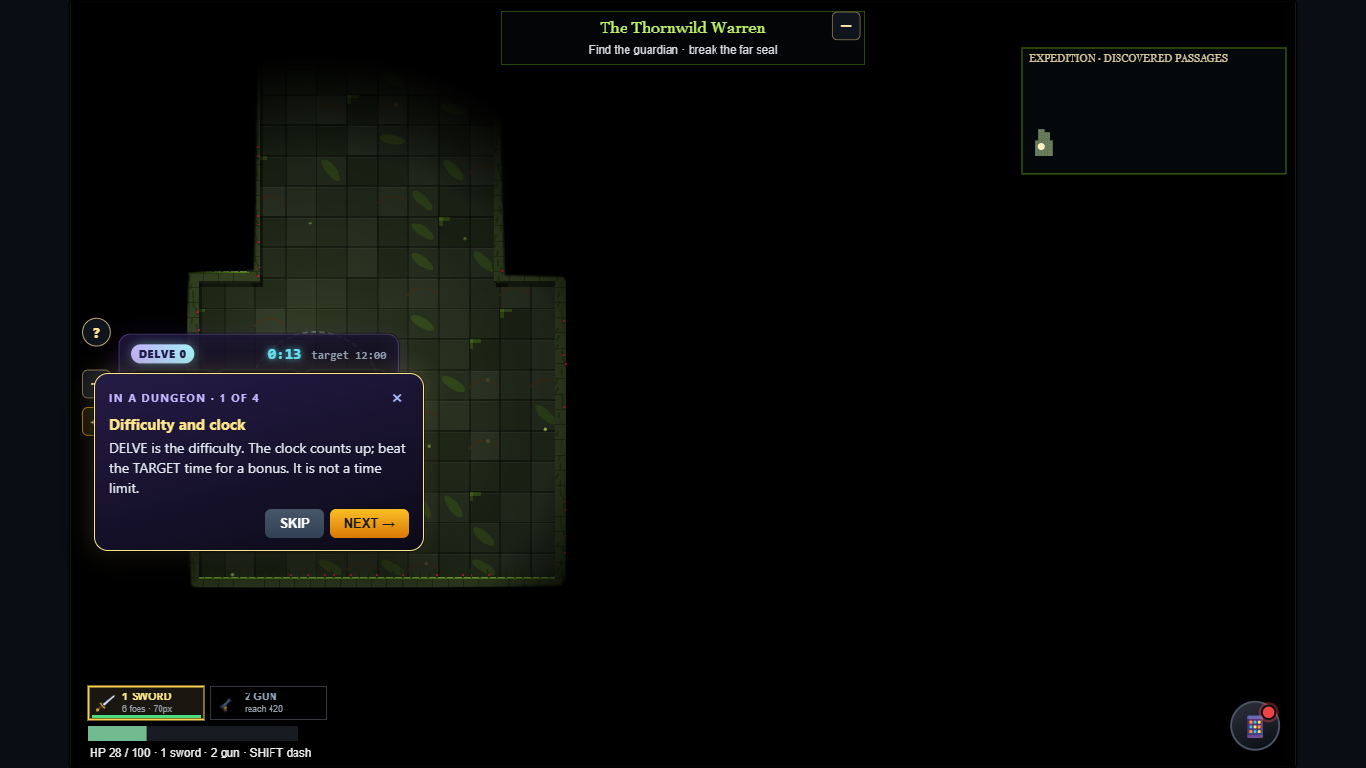
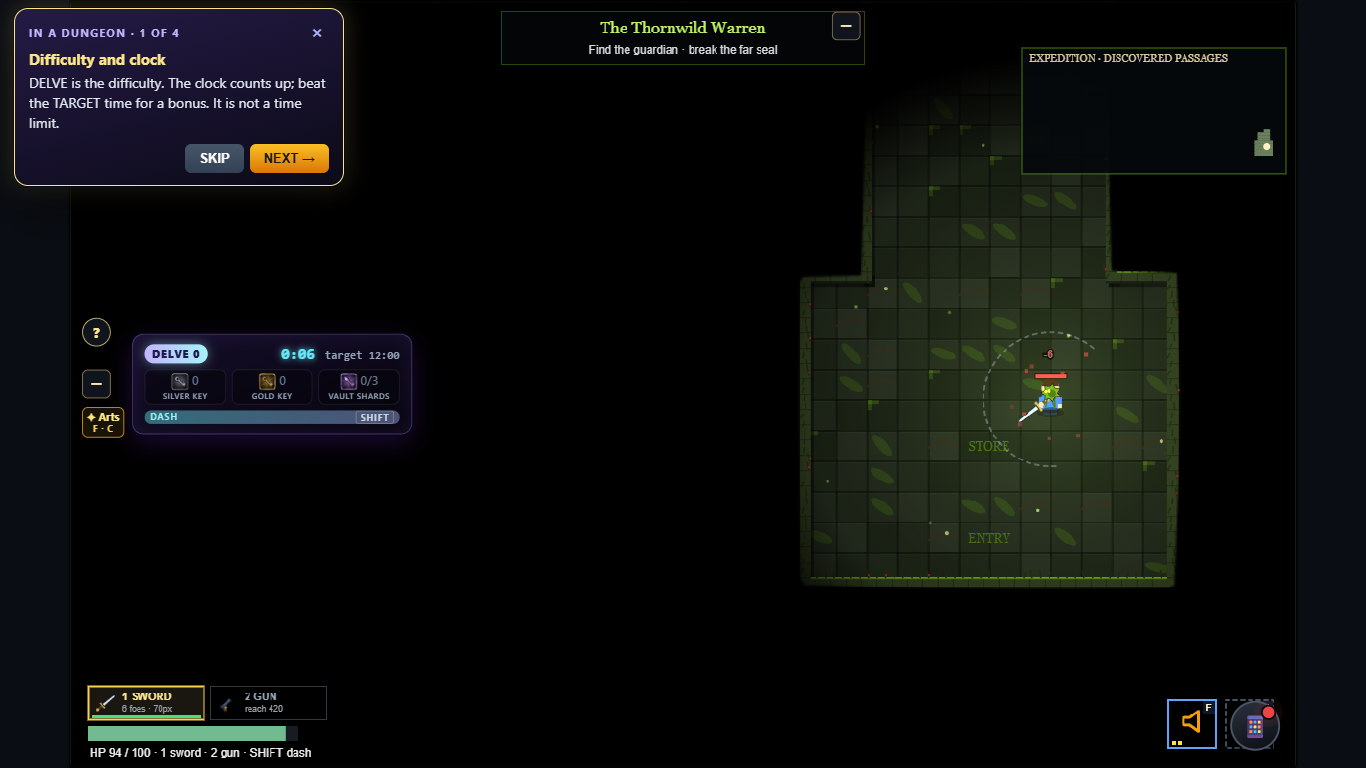
GUI clarity: loot-reveal next step, art slot caption and placement, audit doc with changes and screenshot index

diff --git a/style.css b/style.css
@@ -2819,11 +2819,11 @@ img.ii.scSil{filter:grayscale(1) brightness(.45) contrast(1.2);opacity:.75}
 .gdSpot{position:relative;z-index:2;outline:3px solid #fde68a!important;outline-offset:3px;border-radius:10px;box-shadow:0 0 0 6px rgba(253,230,138,.18),0 0 26px rgba(253,230,138,.45)!important;animation:gdSpotPulse 1.6s ease-in-out infinite}
 @keyframes gdSpotPulse{50%{outline-color:rgba(253,230,138,.45)}}
 /* boss primer */
-.gdBoss{position:fixed;z-index:10030;left:12px;top:22%;width:min(320px,calc(100vw - 24px));padding:12px 14px;border-radius:14px;box-sizing:border-box;
+.gdBoss{position:fixed;z-index:10030;right:12px;top:64px;width:min(320px,calc(100vw - 24px));padding:12px 14px;border-radius:14px;box-sizing:border-box;
   background:linear-gradient(165deg,rgba(40,20,26,.96),rgba(10,6,10,.96));border:1px solid rgba(248,113,113,.65);box-shadow:0 14px 40px rgba(0,0,0,.6);
   color:#f1f5f9;font:13px/1.45 system-ui,sans-serif}
 .gdBoss[hidden]{display:none}
-.gdBoss.modal{left:50%;top:50%;transform:translate(-50%,-50%);width:min(420px,calc(100vw - 24px));max-height:calc(100vh - 24px);overflow:auto}
+.gdBoss.modal{right:auto;left:50%;top:50%;transform:translate(-50%,-50%);width:min(420px,calc(100vw - 24px));max-height:calc(100vh - 24px);overflow:auto}
 .gdBoss > b{font-size:15px;color:#fecaca}
 .gdBoss ol{margin:8px 0;padding-left:20px;display:grid;gap:5px}
 .gdBoss .menuBtn{width:100%;margin-top:8px}
@@ -2892,6 +2892,7 @@ img.ii.scSil{filter:grayscale(1) brightness(.45) contrast(1.2);opacity:.75}
 .gdLockTag{display:inline-block;padding:1px 8px;border-radius:6px;font-size:11px;font-weight:700;color:#cbd5e1;background:rgba(148,163,184,.14);border:1px dashed rgba(148,163,184,.5)}
 #jnRoot .menuBtn:disabled,#jnRoot .menuBtn[disabled]{opacity:.42;filter:grayscale(.7);cursor:not-allowed;box-shadow:none}
 .gdEm{color:#fde68a;font-weight:800}
+.scRvNext{display:block;margin-top:4px;font-size:10px;line-height:1.3;color:#fde68a;opacity:.9;max-width:150px;text-align:center}
 .adForgeHero .gdHelpBtn,.scHero .gdHelpBtn{display:flex;width:max-content;margin-top:6px}
 /* the side column in a run: ?, collapse, Arts (two short lines so it clears the HUD panel) */
 #dungeonArtsBtn{width:44px;height:auto!important;padding:4px 0!important;display:grid;justify-items:center;gap:1px;line-height:1.05!important}

diff --git a/index.html b/index.html
@@ -5,7 +5,7 @@
 <meta name="viewport" content="width=device-width, initial-scale=1" />
 <title>Neighborhood</title>
 <link rel="icon" href="data:," />
-<link rel="stylesheet" href="style.css?v=gui-4" />
+<link rel="stylesheet" href="style.css?v=gui-5" />
 
 </head>
 <body>
@@ -227,18 +227,18 @@
   <script type="text/plain" data-boot src="js/player-weapons.js?v=weapons-1"></script>
   <script type="text/plain" data-boot src="js/combat.js?v=weapons-1"></script>
   <script type="text/plain" data-boot src="js/depths-client.js?v=gui-1"></script>
-  <script type="text/plain" data-boot src="js/expedition.js?v=weapons-1"></script>
+  <script type="text/plain" data-boot src="js/expedition.js?v=gui-1"></script>
   <script type="text/plain" data-boot src="js/crown-boss.js?v=gui-1"></script>
-  <script type="text/plain" data-boot src="js/crown-arts.js?v=crown-b2"></script>
+  <script type="text/plain" data-boot src="js/crown-arts.js?v=gui-1"></script>
   <script type="text/plain" data-boot src="js/ui-guide.js?v=gui-2"></script>
-  <script type="text/plain" data-boot src="js/guild.js?v=gui-1"></script>
+  <script type="text/plain" data-boot src="js/guild.js?v=gui-2"></script>
   <script type="text/plain" data-boot src="js/raid-ui.js?v=gui-2"></script>
   <script type="text/plain" data-boot src="js/item-icons.js?v=weapons-1"></script>
   <script type="text/plain" data-boot src="js/gear.js?v=gui-1"></script>
-  <script type="text/plain" data-boot src="js/forge.js?v=gui-1"></script>
+  <script type="text/plain" data-boot src="js/forge.js?v=gui-2"></script>
   <script type="text/plain" data-boot src="js/codex.js?v=gui-1"></script>
-  <script type="text/plain" data-boot src="js/loot-reveal.js?v=crown-b4"></script>
-  <script type="text/plain" data-boot src="js/arts-ui.js?v=gui-1"></script>
+  <script type="text/plain" data-boot src="js/loot-reveal.js?v=gui-1"></script>
+  <script type="text/plain" data-boot src="js/arts-ui.js?v=gui-2"></script>
   <script type="text/plain" data-boot src="js/journey-ui.js?v=gui-1"></script>
   <script type="text/plain" data-boot src="js/social.js?v=racing-2"></script>
   <script type="text/plain" data-boot src="js/outdoor.js?v=racing-2"></script>

diff --git a/js/guild.js b/js/guild.js
@@ -869,7 +869,7 @@ function scArtChipsHtml(k) {
   return `<div class="scArtChips"><small>${guildTerm("crown_art", "CROWN ARTS")}</small>${list.map(a => {
     const d = window.CROWN && CROWN.ARTS[a.id]; if (!d) return "";
     const p = (a.p * 100).toFixed(a.p < 0.01 ? 1 : 0) + "%";
-    return `<span class="scArtChip r-${esc(d.rarity)}${own[a.id] ? " own" : ""}" title="${esc(d.name + " — " + d.desc + " (" + p + " per clear)")}">${gIco("art", a.id, 16) || "♛"}${esc(d.name)}<small class="gdPct">${own[a.id] ? "✓ owned" : p}</small></span>`; }).join("")}</div>`;
+    return `<span class="scArtChip r-${esc(d.rarity)}${own[a.id] ? " own" : ""}" title="${esc(d.name + " — " + d.desc + " (" + p + " per clear)")}">${gIco("art", a.id, 16) || "♛"}${esc(d.name)}<small class="gdPct">${own[a.id] ? "owned" : p}</small></span>`; }).join("")}</div>`;
 }
 // UI GUIDE hooks (js/ui-guide.js). Every one degrades to plain text when the guide is absent.
 function guildTerm(key, label) { return window.gameGuide && gameGuide.term ? gameGuide.term(key, label) : esc(label); }

diff --git a/js/loot-reveal.js b/js/loot-reveal.js
@@ -171,7 +171,7 @@
     for (let i = 1; i <= max; i++) pipsHtml += `<i class="${i <= a.rank ? "on" : ""}"></i>`;
     return `<div class="scRvFace"><small class="scRvKind">CROWN ART</small><div class="scRvIco">${img || `<span class="scGlyph">♛</span>`}</div>
       <b>${esc(a.name)}</b><span class="adRBadge">${esc(rInfo(a.rarity).label)}</span>
-      <span class="scPips">${pipsHtml}</span><span class="scRvRes">${esc(artResultText(a))}</span></div>`;
+      <span class="scPips">${pipsHtml}</span><span class="scRvRes">${esc(artResultText(a))}</span>${a.result === "new" ? `<small class="scRvNext">Equip it in Crown Arts, then press F or C in a dungeon</small>` : ""}</div>`;
   }
 
   // ---- particles (one canvas for the whole overlay) ----

diff --git a/js/expedition.js b/js/expedition.js
@@ -303,7 +303,7 @@
     if(state.tomeCine){ctx.save();ctx.translate(VIEW_OX,VIEW_OY);gameBosses.drawTomeCinematic(ctx,state.tomeCine,t);ctx.restore();}
     if(G())G().drawScreen(ctx,t);
     minimap();
-    if(window.gameCrownArts)gameCrownArts.drawSlots(ctx,canvas.width-134,canvas.height-70,t);
+    if(window.gameCrownArts)gameCrownArts.drawSlots(ctx,canvas.width-250,canvas.height-70,t); /* clear of the phone button (GUI-AUDIT) */
   }
   window.gameExpedition={setup,tick,draw,minimap,flowTarget,apply,leave,inside};
   if(window.NET)NET.on('guild_dungeon',m=>{if(m.kind==='expedition')apply(m);});

diff --git a/js/crown-arts.js b/js/crown-arts.js
@@ -420,6 +420,10 @@
     if (!S.rec.eq || (!S.rec.eq[0] && !S.rec.eq[1] && !Object.keys(S.rec.own || {}).length)) return;
     t = t || now();
     ctx.save();
+    // A caption so the two squares read as "your Crown Arts" (GUI-AUDIT A6).
+    ctx.fillStyle = 'rgba(0,0,0,.6)'; ctx.fillRect(x, y - 15, SZ * 2 + 8, 13);
+    ctx.fillStyle = '#fde68a'; ctx.font = 'bold 9px sans-serif'; ctx.textAlign = 'center';
+    ctx.fillText('CROWN ARTS · F / C', x + SZ + 4, y - 5);
     for (let i = 0; i < 2; i++) {
       const o = slotInfo(i), bx = x + i * (SZ + 8), by = y;
       ctx.globalAlpha = 1;

diff --git a/docs/sundered-crown/GUI-AUDIT.md b/docs/sundered-crown/GUI-AUDIT.md
@@ -96,26 +96,107 @@ Severity: **H** = a new player gets stuck or quits, **M** = the player misreads 
 - Glossary-style help is hover only.
 - The board's delve `<select>` has no label association. There is no visible focus ring on `.menuBtn` in several panels.
 
-## What was changed (summary — details in the final report)
+## What changed
 
-1. **`js/ui-guide.js` (new, `window.gameGuide`)** — shared onboarding helpers:
-   - a plain-language **glossary** with tap/focus/hover popovers (`gameGuide.term`);
-   - **first-time guided tours** you can dismiss and replay (`gameGuide.tour` / `replay`, with a "? How this works" button);
-   - a **"what should I do next"** recommender for the dungeon ladder (`gameGuide.nextDungeon`);
-   - **unlock chains** (`gameGuide.unlockChain`);
-   - a **boss-fight primer** card on the first meeting with each Crown boss (`gameGuide.bossIntro`);
-   - one **colour/icon legend** (`gameGuide.LEGEND`).
-   Every caller is guarded (`window.gameGuide && …`), so no module depends on it.
-2. **Guild dungeon board**
-   - A "Your next dungeon" call-out at the top.
-   - The banners are compacted into one row.
-   - Cards: plain labels with glossary terms, the fight style shown as text, a loot legend, art drop % shown, the lock chain, a delve
-     explanation in one sentence, and the primary button first.
-3. **Crown Arts panel** — a "How Crown Arts work" 3-step strip, an empty state that points at the open dungeon, a locked/open mark on
-   every source, plain rank-up text, keyboard-operable slots, and a tour.
-4. **Crown boss HUD** — the instruction sits in a readable pill with an icon and a consistent colour (STRIKE / HOLD / WAIT / TIP), plainer
-   words ("VEILED — can't be hurt"), and the text is kept inside the bar background.
-5. **Run HUD** — labelled keys, "target" instead of a bare par, a "?" to replay the run tour, and an F/C hint when you own arts.
-6. **Forge / Armory / Codex / Journey / Raid** — tab descriptions, better empty states, labelled icon buttons, "Gear Lv", a labelled kill
-   count, material explanations, locked raid tiers, the lantern BUY disabled when short, the Paragon lock mark, and no raw cosmetic keys.
-7. **Portrait phones** — menus break out of the scaled stage and lay out at phone width, with no horizontal scroll.
+All edits are UI code and `style.css`. No server file, shared rules module (`js/shared/*`) or `js/dungeon3d.js` was touched.
+New behaviour goes through guarded hook points (`window.gameGuide && …`), so every screen still renders without the guide.
+
+### New: `js/ui-guide.js` (`window.gameGuide`, loaded before `guild.js`)
+
+- **Glossary**: 34 plain-language definitions.
+  - `term(key, label)` renders a focusable chip that explains itself on tap, keyboard focus/Enter or hover.
+  - One popover is shared by all chips. It is fixed to the viewport, so it stays readable at any stage scale.
+  - The chips cover delve, target time (par), payout, item level, affixes, clears, locks, raids, stages, mini bosses, Crown Arts,
+    shards, ranks, copies, every forge material, gems, sigils, Delver XP, the guild cut, run keys, the five fight styles,
+    exposed/veiled, set and unique.
+- **Guided tours**: `tour` / `autoTour` / `replay`, with a "? How this works" button (`helpBtn`).
+  - There are five tours: dungeon board, Crown Arts, Forge, Armory and In a dungeon.
+  - Each tour runs once, the first time the player opens that screen. It can be skipped (SKIP, ×, Esc) and replayed from the "?".
+  - Keyboard: Enter/→ next, ← back, Esc close.
+  - The step being explained gets a gold spotlight, and a tour closes with its menu.
+  - "Seen" flags live in `localStorage` (try/catch), with an in-memory fallback.
+- **What next**: `nextDungeon(rows)` picks the easiest open dungeon the guild has not cleared, and says what clearing it opens.
+  Once everything open is cleared, it says to push the delve ladder.
+- **Unlock chains**: `unlockChain` / `chainHtml`, for example "4 clears away, in order: Ashen Roost → Starlit Archive → Singing Geode → Rimeveil Abyss".
+- **Fight primers**: `fightHelp(bossId)` gives three concrete steps for each of the 8 Crown bosses and minis, and a generic weak-point
+  primer that names the parts for classic bosses.
+  - `bossIntro(id)` shows a "HOW TO BEAT" card the first time you meet each Crown boss. It closes by itself after 16 s.
+  - Forced from a menu, the same card is a modal you dismiss.
+- **One cue language**: `CUES` strike ⚔ gold / hold ✋ red / wait ⏳ violet / tip › slate. The boss HUD and the primer legend use it.
+- `cosmeticName` / `prettyLabel` turn `aura:awakened_sigil` into "Aura: Awakening Sigil".
+
+### Per screen
+
+| Screen | Changes | Audit # |
+|---|---|---|
+| Guild dungeon board (`js/guild.js`) | See the itemised list below this table. | A1 A2 B1-B6 B10 C1 C2 D1 E |
+| Crown Arts (`js/arts-ui.js`) | See the itemised list below this table. | A3 B8 D2 G |
+| Crown boss HUD (`js/crown-boss.js`) | Each prompt is a pill: dark plate, coloured edges, icon, 13 px. Plain verbs: "STUNNED — HIT NOW ×2.0 DAMAGE", "GUARD UP — DON'T HIT (it counters)", "TOWERING — hit a hand when it rests on the floor", "Circle to its side or back — the front is blocked" (Pit Champion). Twin bars read "EXPOSED — HIT" / "VEILED — IMMUNE". The revive line reads "KILL THE OTHER TWIN — revive in 12.0s". Afterimages read "COPIES — the real one has a shadow". The prompt logic is a pure, tested `hudLine()`. First meeting with a boss → primer card. | C5 B12 |
+| Run HUD (`js/depths-client.js`, `js/dungeon-hud.js`, `js/crown-arts.js`, `js/expedition.js`) | "0:12 target 12:00" (the old "/ 12:00" read as a limit). Key counters are labelled SILVER KEY / GOLD KEY / VAULT SHARDS. A "?" button replays the run tour, and the tour starts on your first guild run. The Arts button is compact ("✦ Arts / F · C"), and the HUD panel moved right so the side buttons no longer cover it. The F/C slot squares get a "CROWN ARTS · F / C" caption and moved left, clear of the phone button. | B2 C6 A6 |
+| Forge (`js/forge.js`) | One sentence per tab: what it does, what it costs, where the input comes from. The tabs are a `tablist`. Every wallet chip explains its material. The empty states say what to do ("No Mythic pieces yet — only Mythic gear can ascend. It drops from…", plus a FIND GEAR IN DUNGEONS button when the pack is empty). "Pick a piece from the list. You will see the cost and the result before anything is spent." The developer wording is gone from the header. Tour + "?". | C3 B7 B9 D3 |
+| Armory (`js/gear.js`) | Each pack card starts its comparison with a verdict: ▲ UPGRADE / ▼ WEAKER / = SAME POWER / ▲ FILLS AN EMPTY SLOT. The forge and lock buttons have words (⚒ FORGE, 🔓 LOCK / 🔒 LOCKED) and aria-labels. iLvl explains itself. Tour + "?". | C4 |
+| Codex (`js/codex.js`) | "item level 4 · your fastest clear — · deepest delve 0". "YOUR KILLS" label. "Find every item on this page to earn: …". The collection intro explains the dark tiles. | C7 |
+| Journey (`js/journey-ui.js`) | Cosmetic keys are shown as names. The Paragon tab reads "✧ PARAGON 🔒" with "🔒 unlocks at Delver Rank 60". Disabled BUY buttons now look disabled. | B11 A5 C9 D4 |
+| Raid creation (`js/raid-ui.js`) | Tiers your guild has not opened carry 🔒 and a "SEALED — your guild must clear X" line (the server refuses them). Delve and mastery fields are labelled and explained ("0 = normal difficulty", "0 = anyone"). | C8 |
+| Loot reveal (`js/loot-reveal.js`) | A NEW Crown Art card says "Equip it in Crown Arts, then press F or C in a dungeon". | A6 |
+| Quest Board (`js/game.js`) | The stale "Four harder runs" / "1 Sword, 2 Pistol" text is replaced. It now covers eleven guild dungeons, endless mode and raids, Crown Arts on F/C, and melee/ranged hands with ten weapon kinds (points to Codex → WEAPONS). | A4 |
+| Phones (`style.css`) | Portrait: the menu overlay breaks out of the ×0.3 stage and lays menus out at phone width (~390 px) with readable text. It was a 240 px strip. No page-level horizontal scroll on any of these screens at 390×844 or 844×390; the Codex page list is an intentional side-scroller. | F1 F2 F3 |
+| Keyboard | Glossary chips are focusable (Enter shows them). Arts slots are `role=button`. Forge tabs are a tablist. There are labels for the delve select and raid inputs, a visible gold focus ring on every control of these menus, and tours driven by keys. | G |
+
+**Guild dungeon board (`js/guild.js`)**
+
+- A ★ START HERE / YOUR NEXT DUNGEON call-out has its own CREATE PARTY and HOW TO FIGHT buttons. The matching card is ringed and tagged ★ NEXT.
+- Every card has a "How to fight:" line and a HOW TO FIGHT › button.
+- The action (delve picker, CREATE PARTY) comes before the records.
+- The stats are glossary chips: CLEARS / BEST DELVE / BEST TIME / TARGET (par) / PAYOUT.
+- ITEM LV, EARLY/MID/LATE and RAIDABLE explain themselves.
+- Crown Art chips show their % (or "owned").
+- Loot rows are labelled SPECIAL DROPS and carry a ✦ set / ◈ unique legend.
+- Sealed cards use one lock glyph (🔒) and show the unlock chain.
+- The one-line delve text is "Clear it once, then beat the target time to unlock harder delve levels with better loot".
+- Affixes fold away: "extra rules at delve 2+ · changes every Monday". Each affix chip shows "delve N+" and its effect in text. The internal week number is gone.
+- The guild cut reads "10% cut", not "tithes 10.00%".
+- The raid / journey / arts banners moved below the list, under "MORE TO DO".
+- Tour + "?".
+- The no-guild toast says where the Broker is.
+
+**Crown Arts panel (`js/arts-ui.js`)**
+
+- A 4-step strip (FIND / EQUIP / USE / RANK UP) ticks off as you progress.
+- With nothing owned, a "here's where to start" box names the best open dungeon for arts (Thornwild for a new guild) with its odds, and a GO TO GUILD DUNGEONS button.
+- Every "Where it drops" source is marked *open now* or *🔒 not open to your guild yet*, open ones first.
+- The % is explained.
+- The detail head reads "rank 1 of 5 · on F" in words.
+- Rank-up and forge copy is plain.
+- Empty slots say what to do.
+- Slots are keyboard-operable (`role=button`, Enter/Space) and have aria labels.
+- Tour + "?".
+
+### Before / after screenshots (`docs/sundered-crown/shots/gui/`)
+
+`before/` holds the audit shots. `after/` uses the same numbers:
+
+| Screen | After shots |
+|---|---|
+| Crown Arts | `06*` new player, `60-62` with arts owned |
+| Dungeon board | `13*-18` (`13` board, `13b` tour step 2, `16` sealed chains, `17` a glossary popover, `18` the Gorehorn primer) |
+| Armory | `20-21` |
+| Forge | `23-25` (`23b` a material explained) |
+| Codex | `26` |
+| Raid creation | `31` |
+| Journey | `33`, `36` |
+| Quest Board | `07` |
+| Run | `40-43` (party, run, run tour, HUD) |
+| Crown boss HUD, five states | `50` |
+| In-fight primer | `63` |
+| Landscape phone | `l70-l73` |
+| Portrait phone | `m60-m68` |
+
+### Left rough / not done
+
+- The login screen (`#loginScreen`, `crown-title*`) is owned by another package (MASTER-PLAN "out of scope"), so it was not touched.
+- The boss HUD was checked on a test canvas driven by the real `gameCrownBoss` runtime, not in a live Crown boss fight. Reaching one needs a full run.
+- Tours and the primer remember "seen" per browser (`localStorage`), not per account.
+- `js/combat.js`'s bottom-left boss-room hint ("Strike it when it is open — never the glowing guard") was left as is (B2 file). It matches the new wording closely enough.
+- The tiny stage-scaled toasts and the phone overlay in portrait are pre-existing and outside these two updates.
+
